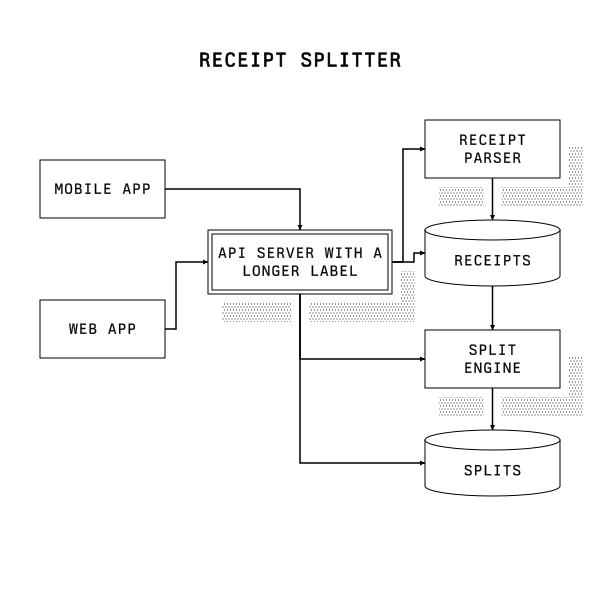
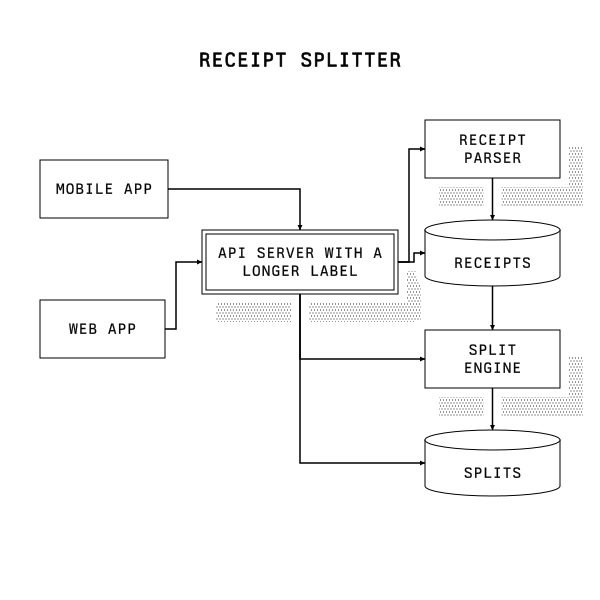
Keep consistent text padding inside entities

diff --git a/app.js b/app.js
@@ -1,4 +1,4 @@
-import { displayLines, portId, SIDES } from './layout.js';
+import { databaseRadius, displayLines, minimumTextNodeSize, portId, SIDES, textInsets, TEXT_LETTER_SPACING } from './layout.js';
 import { sampleLayout, sampleTemplate } from './sample-template.js';
 import { layoutPositioned } from './positioned-layout.js';
 
@@ -29,10 +29,8 @@ function isUntouchedLegacySample(saved) {
 
 function fitsPresetNode(node, label) {
   if (!Number.isFinite(node.width) || !Number.isFinite(node.height)) return false;
-  const lines = displayLines(label);
-  const fontSize = node.fontSize || 15;
-  return lines.length * fontSize * 1.2 <= node.height - 8 &&
-    Math.max(...lines.map(line => line.length)) * fontSize * 0.61 <= node.width - 8;
+  const minimum = minimumTextNodeSize(node, label);
+  return minimum.width <= node.width && minimum.height <= node.height;
 }
 
 function loadDocument() {
@@ -120,10 +118,6 @@ function endpoint(node, side) {
   if (side === 'south') return { x, y: node.y + node.height };
   if (side === 'east') return { x: node.x + node.width, y };
   return { x: node.x, y };
-}
-
-function databaseRadius(height) {
-  return Math.min(10, height / 5);
 }
 
 function databaseBodyPath(x, y, width, height) {
@@ -318,13 +312,14 @@ function positionInlineEditor() {
   const scale = Math.min(width / boxWidth, height / boxHeight);
   const insetX = (width - boxWidth * scale) / 2;
   const insetY = (height - boxHeight * scale) / 2;
-  const editorWidth = Math.max(24, placed.width * scale - 6);
-  const editorHeight = Math.max(24, placed.height * scale - 6);
+  const insets = textInsets(node.shape, placed.height);
+  const editorWidth = Math.max(24, (placed.width - insets.left - insets.right) * scale);
+  const editorHeight = Math.max(24, (placed.height - insets.top - insets.bottom) * scale);
   const fontSize = (node.fontSize || 19) * scale;
   const lineHeight = fontSize * 1.2;
   const lineCount = displayLines(node.label).length;
-  inlineEditor.style.left = `${insetX + (placed.x - minX) * scale + 3}px`;
-  inlineEditor.style.top = `${insetY + (placed.y - minY) * scale + 3}px`;
+  inlineEditor.style.left = `${insetX + (placed.x + insets.left - minX) * scale}px`;
+  inlineEditor.style.top = `${insetY + (placed.y + insets.top - minY) * scale}px`;
   inlineEditor.style.width = `${editorWidth}px`;
   inlineEditor.style.height = `${editorHeight}px`;
   inlineEditor.style.fontSize = `${fontSize}px`;
@@ -459,9 +454,10 @@ function render() {
     const lines = displayLines(node.label);
     const fontSize = node.fontSize || 19;
     const lineHeight = fontSize * 1.2;
-    const textStart = placed.y + placed.height / 2 - ((lines.length - 1) * lineHeight) / 2 + fontSize * 0.32 +
-      (node.shape === 'database' ? databaseRadius(placed.height) * 0.75 : 0);
-    const text = element('text', { class: 'node-label', x: placed.x + placed.width / 2, y: textStart, 'text-anchor': 'middle', 'font-size': fontSize, fill: '#000', stroke: '#000', 'stroke-width': node.fontWeight === 700 ? 0.65 : 0.2, 'paint-order': 'stroke fill', 'font-family': 'Berkeley Mono, Menlo, monospace', 'font-weight': node.fontWeight || 500, 'letter-spacing': 0.7 });
+    const insets = textInsets(node.shape, placed.height);
+    const textStart = placed.y + insets.top + (placed.height - insets.top - insets.bottom) / 2 -
+      ((lines.length - 1) * lineHeight) / 2 + fontSize * 0.32;
+    const text = element('text', { class: 'node-label', x: placed.x + placed.width / 2, y: textStart, 'text-anchor': 'middle', 'font-size': fontSize, fill: '#000', stroke: '#000', 'stroke-width': node.fontWeight === 700 ? 0.65 : 0.2, 'paint-order': 'stroke fill', 'font-family': 'Berkeley Mono, Menlo, monospace', 'font-weight': node.fontWeight || 500, 'letter-spacing': TEXT_LETTER_SPACING });
     lines.forEach((line, lineIndex) => {
       const span = element('tspan', { x: placed.x + placed.width / 2, dy: lineIndex ? lineHeight : 0 });
       span.textContent = line.toUpperCase();
@@ -735,7 +731,16 @@ document.querySelectorAll('[data-border-style]').forEach(button => button.addEve
   const node = documentState.nodes.find(item => selected?.type === 'node' && item.id === selected.id);
   if (!node) return;
   node.shape = button.dataset.borderStyle;
+  const minimum = minimumTextNodeSize(node);
+  const needsResize = node.width < minimum.width || node.height < minimum.height;
+  if (needsResize) beginManualLayout();
   persist();
+  if (needsResize) {
+    updateLayout();
+    node.baseWidth = Math.max(node.baseWidth || 0, node.width);
+    node.baseHeight = Math.max(node.baseHeight || 0, node.height);
+    persist();
+  }
   setSelection(selected);
 }));
 inlineEditor.addEventListener('input', event => {

diff --git a/tests/editor.test.js b/tests/editor.test.js
@@ -242,7 +242,18 @@ test('node editing, directional linking, and SVG export keep the receipt splitte
     window.document.querySelector('[data-border-style="double"]').click();
     added = JSON.parse(localStorage.getItem('schematic-editor-v2')).nodes[0];
     assert.equal(added.shape, 'double');
+    assert.ok(added.height > 40);
     assert.equal(window.document.querySelector('[data-node-id] .node-inner-border').getAttribute('stroke'), '#000');
+    window.document.querySelector('[data-border-style="box"]').click();
+    let restyled = JSON.parse(localStorage.getItem('schematic-editor-v2')).nodes[0];
+    assert.deepEqual([restyled.width, restyled.height], [added.width, added.height]);
+    window.document.querySelector('[data-border-style="database"]').click();
+    restyled = JSON.parse(localStorage.getItem('schematic-editor-v2')).nodes[0];
+    assert.ok(restyled.height > added.height);
+    const databaseText = window.document.querySelector('[data-node-id] .node-label');
+    const databaseTop = window.document.querySelector('[data-node-id] .node-database-top');
+    assert.ok(Number(databaseText.getAttribute('y')) - 19 * 0.75 -
+      (Number(databaseTop.getAttribute('cy')) + Number(databaseTop.getAttribute('ry'))) >= 8);
     window.document.querySelector('[data-node-id]').dispatchEvent(new window.MouseEvent('click', { bubbles: true }));
     assert.equal($('inline-editor').hidden, true);
   } finally {

diff --git a/positioned-layout.js b/positioned-layout.js
@@ -1,4 +1,4 @@
-import { displayLines } from './layout.js';
+import { minimumTextNodeSize } from './layout.js';
 
 const SIDES = {
   north: [0, -1], east: [1, 0], south: [0, 1], west: [-1, 0],
@@ -19,16 +19,13 @@ function overlaps(a, b, gap = 16) {
 }
 
 function fitNode(node, others) {
-  const lines = displayLines(node.label);
-  const font = node.fontSize || 19;
   const existing = Number.isFinite(node.width) && Number.isFinite(node.height);
   node.baseWidth ??= existing ? node.width : 120;
   node.baseHeight ??= existing ? node.height : 66;
   node.baseLabel ??= node.label;
-  const padding = existing ? 12 : 16;
-  const originalLabel = node.label === node.baseLabel;
-  const width = originalLabel ? node.baseWidth : Math.max(node.baseWidth, Math.ceil(Math.max(...lines.map(line => line.length)) * (font * 0.61 + 0.7) + Math.max(padding, 16)));
-  const height = originalLabel ? node.baseHeight : Math.max(node.baseHeight, Math.ceil(lines.length * font * 1.2 + padding));
+  const minimum = minimumTextNodeSize(node);
+  const width = Math.max(node.baseWidth, minimum.width);
+  const height = Math.max(node.baseHeight, minimum.height);
   if (width === node.width && height === node.height) return;
   const x = node.x + ((node.width || width) - width) / 2;
   const y = node.y + ((node.height || height) - height) / 2;

diff --git a/layout.js b/layout.js
@@ -1,4 +1,28 @@
 export const SIDES = ['north', 'east', 'south', 'west'];
+export const TEXT_LETTER_SPACING = 0.7;
+
+export function databaseRadius(height) {
+  return Math.min(10, height / 5);
+}
+
+export function textInsets(shape, height) {
+  if (shape === 'text') return { left: 12, right: 12, top: 12, bottom: 12 };
+  if (shape === 'database') return { left: 14, right: 14, top: 2 * databaseRadius(height) + 10, bottom: 10 };
+  return { left: 14, right: 14, top: 14, bottom: 14 };
+}
+
+export function minimumTextNodeSize(node, label = node.label) {
+  const lines = displayLines(label);
+  const fontSize = node.fontSize || 19;
+  const insets = textInsets(node.shape, 60);
+  const longest = Math.max(...lines.map(line => line.length));
+  const textWidth = longest * (fontSize * 0.61 + TEXT_LETTER_SPACING);
+  const textHeight = fontSize * 0.75 + (lines.length - 1) * fontSize * 1.2;
+  return {
+    width: Math.ceil(textWidth + insets.left + insets.right),
+    height: Math.ceil(textHeight + insets.top + insets.bottom),
+  };
+}
 
 export function displayLines(label) {
   const lines = [];

diff --git a/tests/layout.test.js b/tests/layout.test.js
@@ -1,6 +1,6 @@
 import assert from 'node:assert/strict';
 import test from 'node:test';
-import { displayLines } from '../layout.js';
+import { displayLines, minimumTextNodeSize } from '../layout.js';
 import { sampleLayout, sampleTemplate } from '../sample-template.js';
 import { layoutPositioned } from '../positioned-layout.js';
 
@@ -67,6 +67,10 @@ test('receipt splitter sample routes avoid unrelated blocks', () => {
   assert.equal(result.width, 600);
   assert.equal(result.height, 600);
   assert.deepEqual(document.nodes.filter(node => node.shape === 'database').map(node => node.label), ['RECEIPTS', 'SPLITS']);
+  for (const node of document.nodes) {
+    const minimum = minimumTextNodeSize(node);
+    assert.ok(node.width >= minimum.width && node.height >= minimum.height, `${node.id} keeps text clear of its shape`);
+  }
   for (const edge of result.edges) {
     const original = document.edges.find(item => item.id === edge.id);
     for (const section of edge.sections) {

diff --git a/sample-template.js b/sample-template.js
@@ -1,6 +1,6 @@
 // Editable 600 × 600 example of a small receipt splitting service.
 const blocks = [
-  ['n1', 'MOBILE APP', 'box', 40, 160, 125, 58, false],
+  ['n1', 'MOBILE APP', 'box', 40, 160, 128, 58, false],
   ['n2', 'WEB APP', 'box', 40, 300, 125, 58, false],
   ['n3', 'API SERVER', 'double', 235, 230, 130, 64, true],
   ['n4', 'RECEIPT\nPARSER', 'box', 425, 120, 135, 58, true],
@@ -11,7 +11,7 @@ const blocks = [
 ];
 
 const lines = [
-  ['e1', 'n1', 'east', 'n3', 'north', [[165, 189], [300, 189], [300, 230]]],
+  ['e1', 'n1', 'east', 'n3', 'north', [[168, 189], [300, 189], [300, 230]]],
   ['e2', 'n2', 'east', 'n3', 'west', [[165, 329], [200, 329], [200, 262], [235, 262]]],
   ['e3', 'n3', 'east', 'n4', 'west', [[365, 262], [390, 262], [390, 149], [425, 149]]],
   ['e4', 'n4', 'south', 'n6', 'north', [[492.5, 178], [492.5, 220]]],

diff --git a/README.md b/README.md
@@ -14,7 +14,7 @@ Open `http://localhost:8000`. There is no build step or runtime dependency. To r
 
 In the repository's **Settings → Pages**, set **Source** to **Deploy from a branch**, select `main` and `/ (root)`. GitHub Pages can serve the files directly at `https://karn.github.io/schematic/`. Diagrams stay in each browser's local storage.
 
-The starter diagram shows a receipt splitting app: mobile and web clients reach an API server, which works with a receipt parser, split engine, and two databases. It uses a white background, uppercase monospaced text, black right-angle arrows, and optional offset halftone shadows. Double click the canvas to add a text node; choose None, Single, Double, or Database under Entity shape in the inspector. Edits preserve the existing arrangement, fit changed text, and reroute affected arrows. **Sample** restores the starter diagram.
+The starter diagram shows a receipt splitting app: mobile and web clients reach an API server, which works with a receipt parser, split engine, and two databases. It uses a white background, uppercase monospaced text, black right-angle arrows, and optional offset halftone shadows. Double click the canvas to add a text node; choose None, Single, Double, or Database under Entity shape in the inspector. Shapes keep a consistent text inset and expand when a label needs room. Edits preserve the existing arrangement and reroute affected arrows. **Sample** restores the starter diagram.
 
 The app and exported SVG use the locally installed **Berkeley Mono** font. On another machine, the SVG falls back to Menlo or the system monospace font.
 
